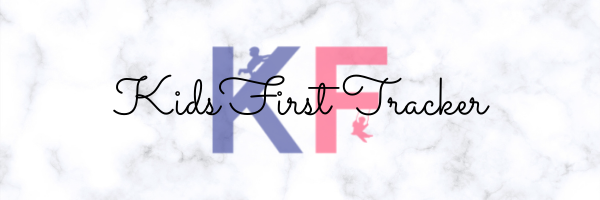
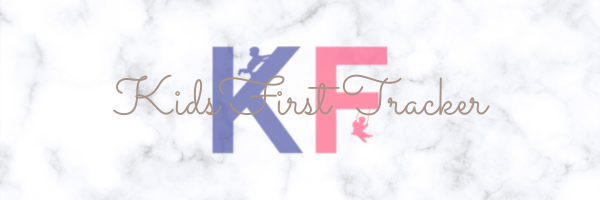
Final Push before due date

Changed region(s): [[0.18, 0.36, 0.81, 0.6], [0.27, 0.36, 0.3, 0.39]]

diff --git a/KidsFirstTracker.WebMVC/Content/custom.css b/KidsFirstTracker.WebMVC/Content/custom.css
@@ -1,5 +1,8 @@
 
 
+.body-content {
+    background-color: #f0f0ea;
+}
 
 .featurette-divider {
     margin: 80px 0; /* Space out the Bootstrap <hr> more */
@@ -10,13 +13,14 @@
     font-weight: 300;
     line-height: 1;
     letter-spacing: -1px;
+    color: #a89387;   
 }
 
 
 /* Main marketing message and sign up button */
 .jumbotron {
     text-align: center;
-    /*background-color: #C8DCE7;*/
+    background-color: #DAEAEF;
     border-bottom: 1px solid #C8DCE7;
     color: #09547B;
     background-image: url(~/Images/KidsFirstTracker.png);
